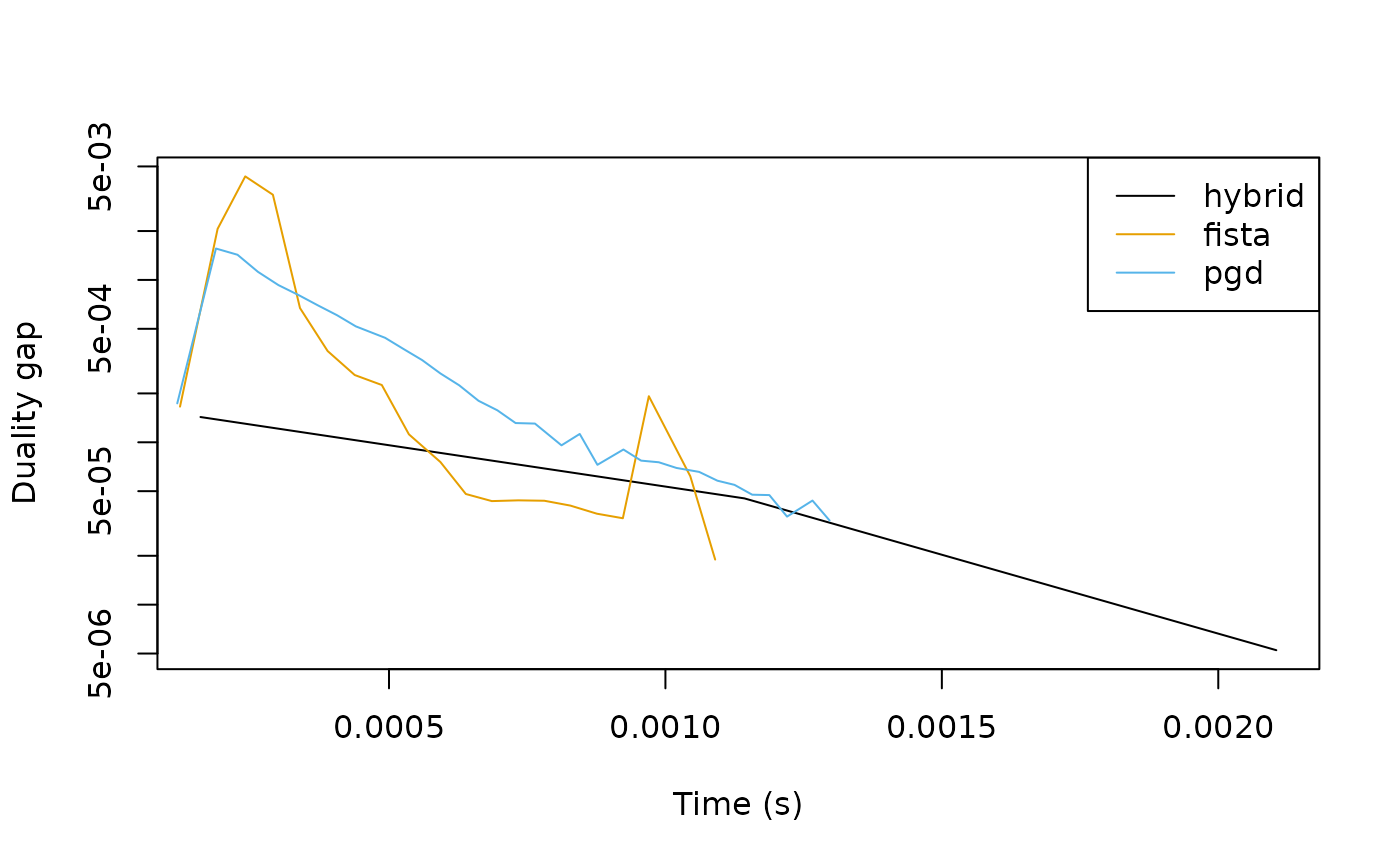
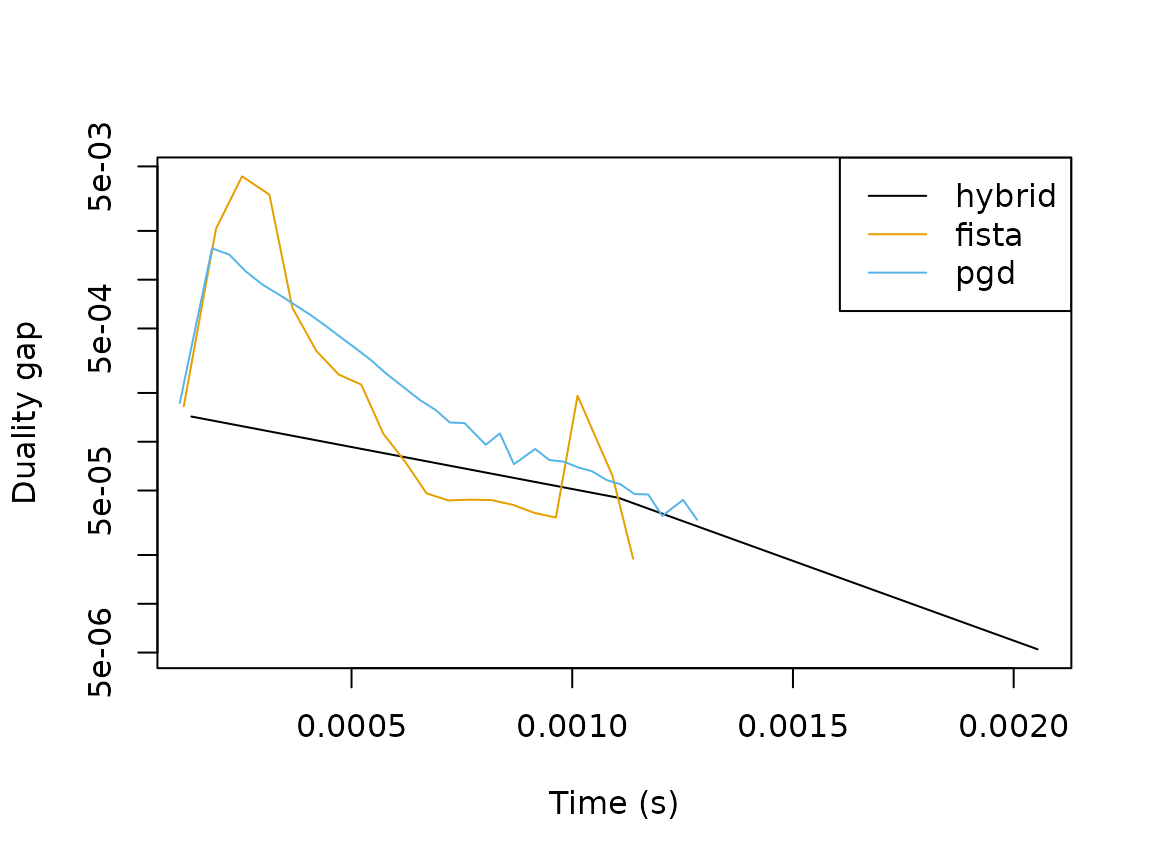
Deploying to gh-pages from @ jolars/SLOPE@dbabc12b3e374a3f1bb8e6fa453986677944582f 🚀

diff --git a/dev/articles/solvers.html b/dev/articles/solvers.html
@@ -152,7 +152,7 @@ bounds on suboptimality) for the different solvers.</p>
 <span><span class="fu"><a href="https://rdrr.io/r/base/names.html" class="external-link">names</a></span><span class="op">(</span><span class="va">total_time</span><span class="op">)</span> <span class="op">&lt;-</span> <span class="va">solvers</span></span>
 <span></span>
 <span><span class="fu"><a href="https://rdrr.io/r/graphics/barplot.html" class="external-link">barplot</a></span><span class="op">(</span><span class="va">total_time</span>, ylab <span class="op">=</span> <span class="st">"Time (s)"</span><span class="op">)</span></span></code></pre></div>
-<p><img src="solvers_files/figure-html/compute-total-time-1.png" width="700"></p>
+<p><img src="solvers_files/figure-html/compute-total-time-1.png" width="700" style="display: block; margin: auto;"></p>
 <p>Here is is clear that the hybrid method performs best followed by
 FISTA and PGD.</p>
 <p>To see how the solvers compare for a single objective along the path,
@@ -192,7 +192,7 @@ we collect the gaps at step 40 for each solver.</p>
 <span><span class="op">}</span></span>
 <span></span>
 <span><span class="fu"><a href="https://rdrr.io/r/graphics/legend.html" class="external-link">legend</a></span><span class="op">(</span><span class="st">"topright"</span>, legend <span class="op">=</span> <span class="va">solvers</span>, col <span class="op">=</span> <span class="va">colors</span>, lty <span class="op">=</span> <span class="fl">1</span><span class="op">)</span></span></code></pre></div>
-<p><img src="solvers_files/figure-html/plot-gaps-1.png" width="700"></p>
+<p><img src="solvers_files/figure-html/plot-gaps-1.png" width="576" style="display: block; margin: auto;"></p>
 </div>
 <div class="section level2 unnumbered">
 <h2 class="unnumbered" id="references">References<a class="anchor" aria-label="anchor" href="#references"></a>
